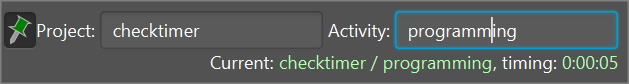
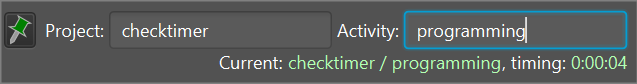
Project label: increase left padding

diff --git a/src/main/resources/style.css b/src/main/resources/style.css
@@ -13,3 +13,7 @@
 .changeable-text {
     -fx-text-fill: rgb(180, 256, 180);
 }
+
+.project-label {
+    -fx-padding: 0 0 0 0.5em;
+}
